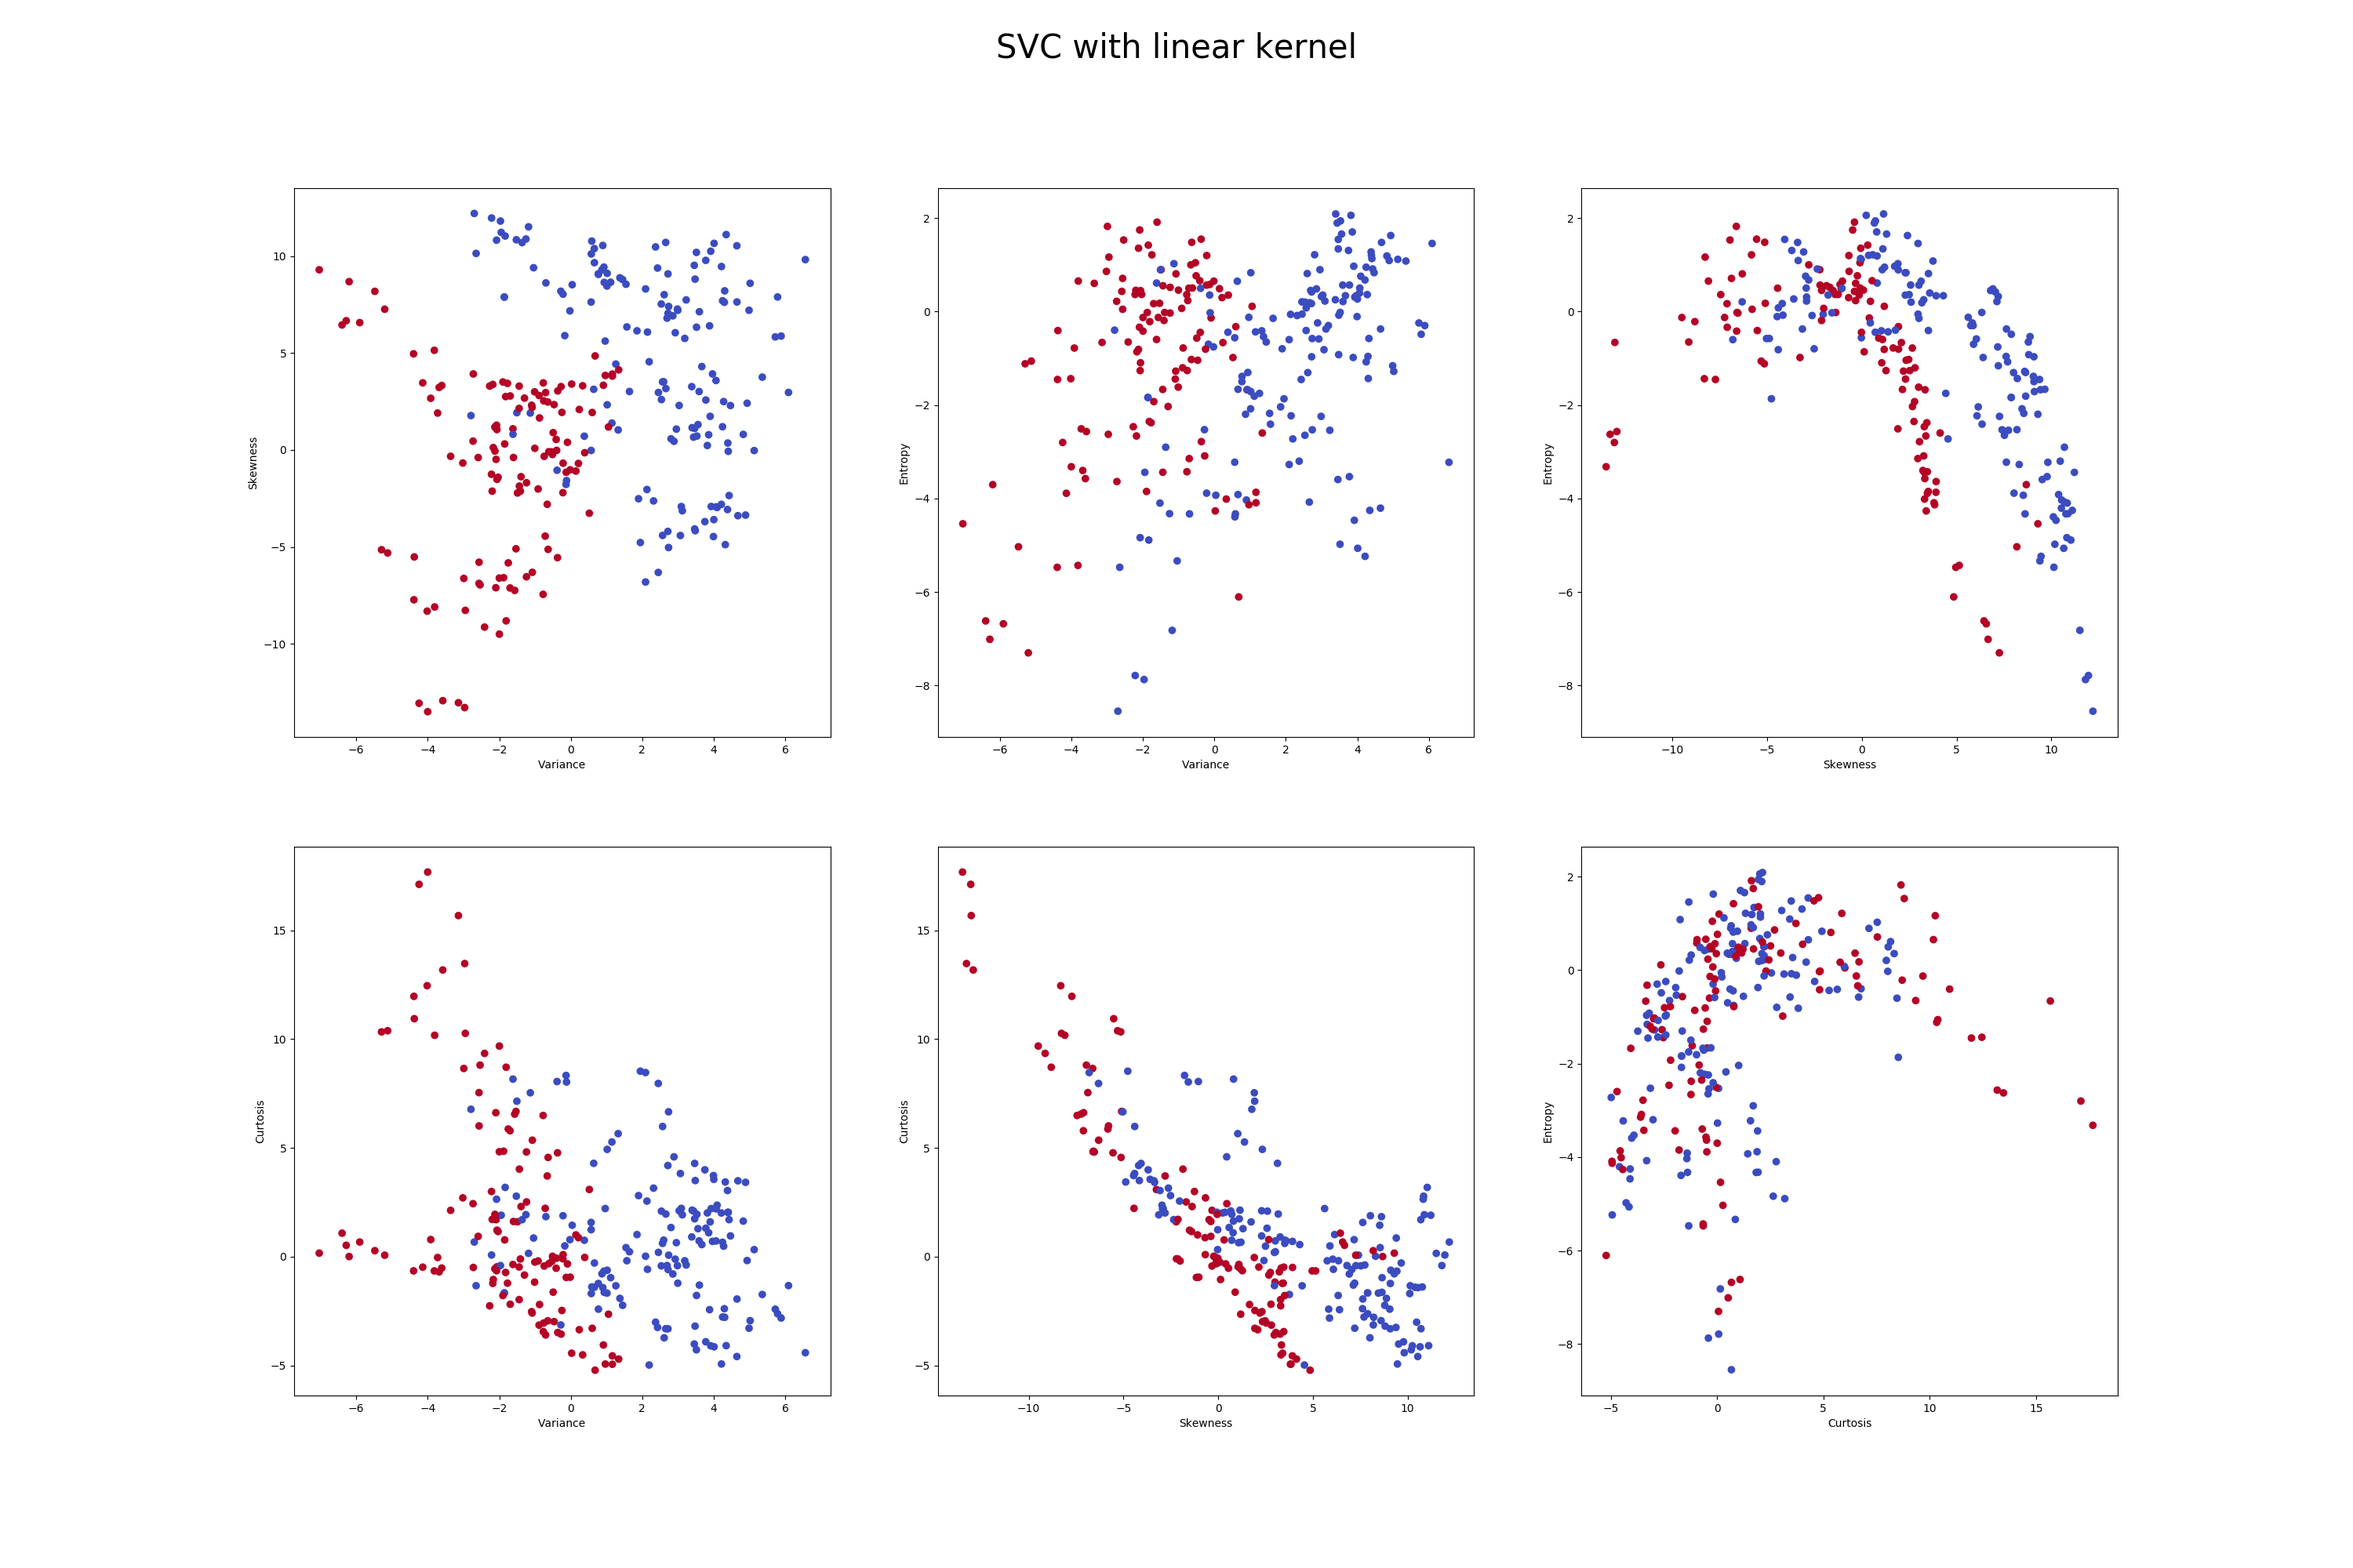
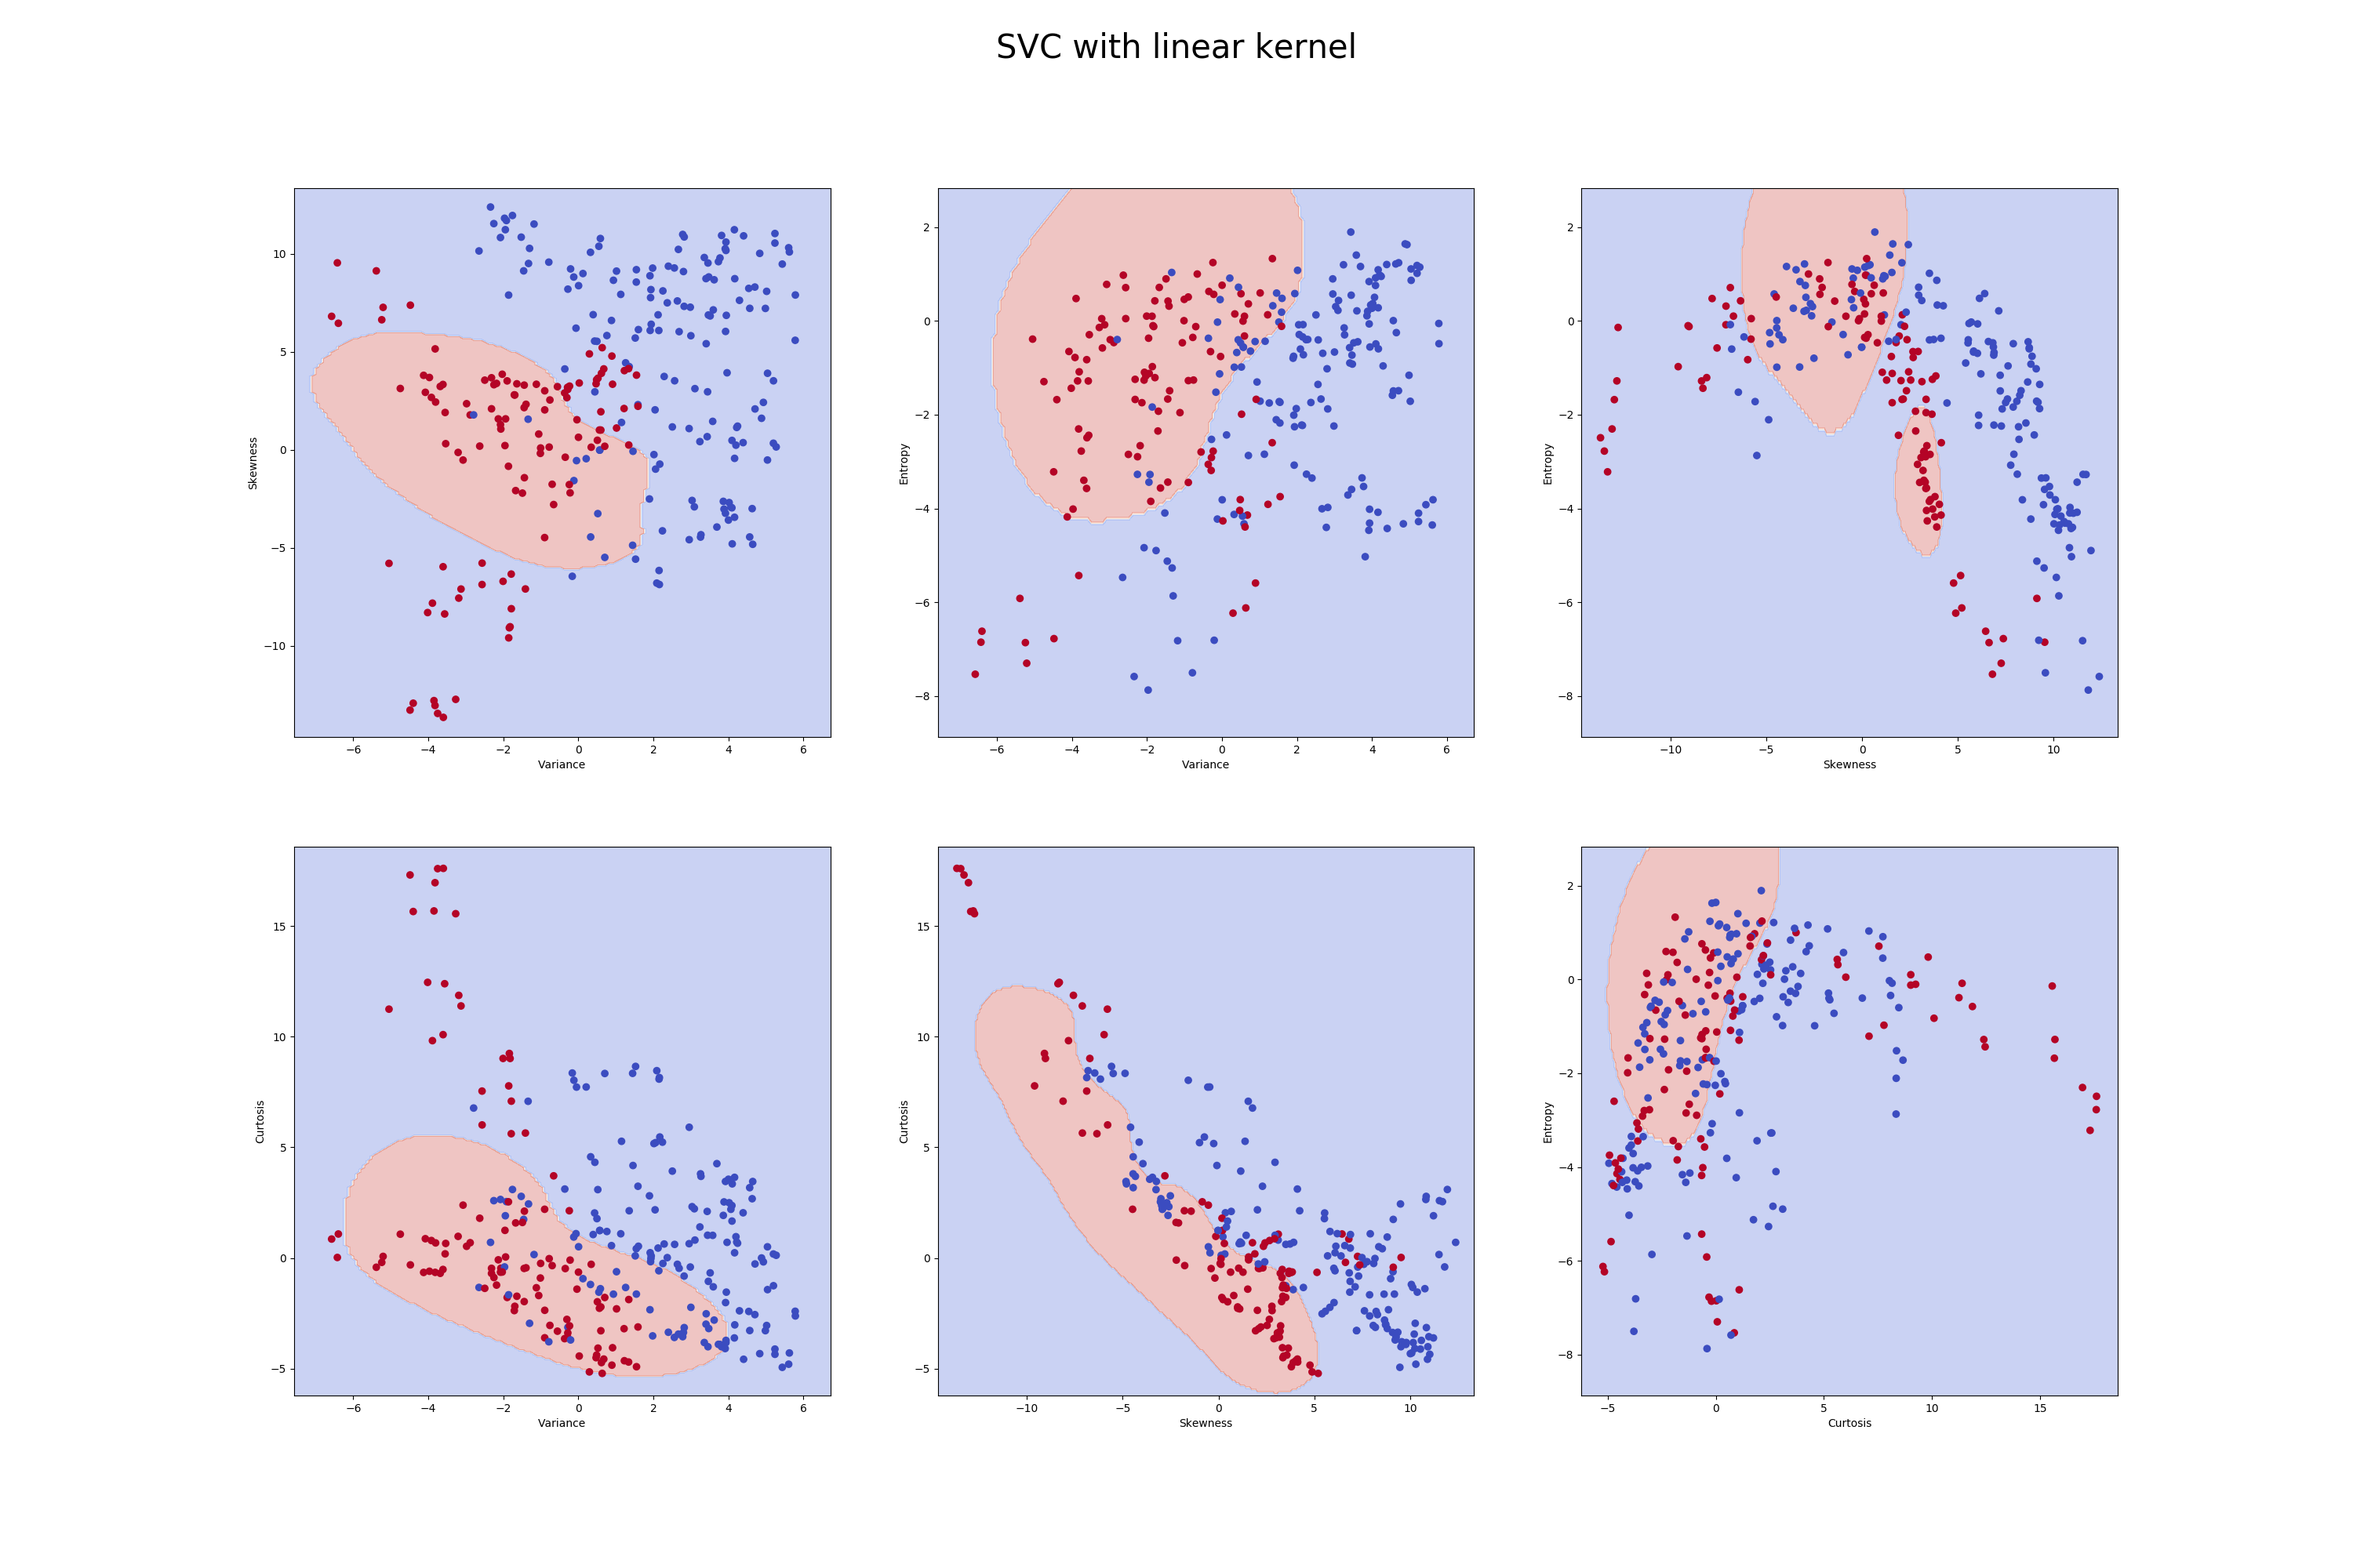
Plotting contourf

diff --git a/src/basic.py b/src/basic.py
@@ -8,7 +8,7 @@ from matplotlib.pyplot import figure
 
 label_column = 'Class'
 bankdata = pd.read_csv("../datasets/bill_authentication.csv")
-columns = set(bankdata.columns) - {label_column}
+columns = [c for c in bankdata.columns if c != label_column]
 attributes = bankdata.drop(label_column, axis=1)
 labels = bankdata[label_column]
 
@@ -20,7 +20,7 @@ from sklearn.svm import SVC
 model = model_selection.train_test_split(attributes, labels, test_size=0.20)
 train_attributes, test_attributes, train_labels, test_labels = model
 
-classifier = SVC(kernel='linear')
+classifier = SVC(kernel='rbf')
 classifier.fit(train_attributes, train_labels)
 
 # ------------------------------------------------------------------------------- Processing and evaluating
@@ -34,16 +34,50 @@ predictions = classifier.predict(test_attributes)
 # --------------------------------------------------------------------------------- Plot results
 import itertools
 
-dataset = test_attributes  # .iloc[:, :2].values  # first try with 2 columns
+dataset = test_attributes  # .iloc[:10,:]  # .iloc[:, :2].values  # first try with 2 columns
+h = 0.1
 
 graph_axes = list(itertools.combinations(columns, 2))
-column_indexes = {c: i for c, i in enumerate(columns)}
+column_indexes = {c: i for i, c in enumerate(columns)}
+column_number = len(column_indexes.items())
 n = len(graph_axes)
 boxes_number = 3
 fig, axs = plt.subplots(int(n / boxes_number), boxes_number)
+
+
+def create_dataset_from_mesh_grid(xx, yy, columns_x_y):
+    (column_x, column_y) = columns_x_y
+    raveled_xx, raveled_yy = xx.ravel(), yy.ravel()
+
+    arr = []
+    for i in range(column_number):
+        if i == columns.index(column_x):
+            arr.append(raveled_xx)
+        elif i == columns.index(column_y):
+            arr.append(raveled_yy)
+        else:
+            arr.append(np.array([0.0] * len(raveled_xx)))
+
+    return np.c_[arr[0], arr[1], arr[2], arr[3]]
+
+
+def create_meshed_dataset():
+    x_, y_ = dataset.iloc[:, columns.index(column_x)], dataset.iloc[:, columns.index(column_y)]
+    x_min, x_max = x_.min() - 1, x_.max() + 1
+    y_min, y_max = y_.min() - 1, y_.max() + 1
+    xx, yy = np.meshgrid(np.arange(x_min, x_max, h), np.arange(y_min, y_max, h))
+    return xx, yy, create_dataset_from_mesh_grid(xx, yy, (column_x, column_y))
+
+
 for i, (column_x, column_y) in enumerate(graph_axes):
     r, c = divmod(i, 2)
     g = axs[c, r]
+
+    xx, yy, mesh_grid = create_meshed_dataset()
+    Z = classifier.predict(mesh_grid).reshape(xx.shape)
+
+    g.contourf(xx, yy, Z, cmap=plt.cm.coolwarm, alpha=0.3)
+
     g.scatter(x=dataset[column_x],
               y=dataset[column_y],
               c=predictions,
@@ -60,10 +94,10 @@ plt.show()
 if __name__ == '__main__':
     # --------------------------------------------------------------------------------- Dump and reload
     import pickle
-
-    filename = 'classifier.pkl'
-    pickle.dump(classifier, open(filename, 'wb'))
-    loaded_classfier = pickle.load(open(filename, 'rb'))
-    predictions = loaded_classfier.predict(test_attributes)
+    #
+    # filename = 'classifier.pkl'
+    # pickle.dump(classifier, open(filename, 'wb'))
+    # loaded_classfier = pickle.load(open(filename, 'rb'))
+    # predictions = loaded_classfier.predict(test_attributes)
     # print(confusion_matrix(test_labels, predictions))
     # print(classification_report(test_labels, predictions))

diff --git a/src/example.py b/src/example.py
@@ -1,0 +1,58 @@
+import numpy as np
+import matplotlib.pyplot as plt
+from sklearn import svm, datasets
+
+# import some data to play with
+iris = datasets.load_iris()
+X = iris.data[:, :2]  # we only take the first two features. We could
+# avoid this ugly slicing by using a two-dim dataset
+y = iris.target
+
+h = .02  # step size in the mesh
+
+# we create an instance of SVM and fit out data. We do not scale our
+# data since we want to plot the support vectors
+C = 1.0  # SVM regularization parameter
+svc = svm.SVC(kernel='linear', C=C).fit(X, y)
+rbf_svc = svm.SVC(kernel='rbf', gamma=0.7, C=C).fit(X, y)
+poly_svc = svm.SVC(kernel='poly', degree=3, C=C).fit(X, y)
+lin_svc = svm.LinearSVC(C=C).fit(X, y)
+
+# create a mesh to plot in
+x_min, x_max = X[:, 0].min() - 1, X[:, 0].max() + 1
+y_min, y_max = X[:, 1].min() - 1, X[:, 1].max() + 1
+xx, yy = np.meshgrid(np.arange(x_min, x_max, h),
+                     np.arange(y_min, y_max, h))
+
+# title for the plots
+titles = ['SVC with linear kernel',
+          'LinearSVC (linear kernel)',
+          'SVC with RBF kernel',
+          'SVC with polynomial (degree 3) kernel']
+
+for i, clf in enumerate((svc, lin_svc, rbf_svc, poly_svc)):
+    # Plot the decision boundary. For that, we will assign a color to each
+    # point in the mesh [x_min, x_max]x[y_min, y_max].
+    plt.subplot(2, 2, i + 1)
+    plt.subplots_adjust(wspace=0.4, hspace=0.4)
+
+    Z = clf.predict(np.c_[xx.ravel(), yy.ravel()])
+
+    # Put the result into a color plot
+    Z = Z.reshape(xx.shape)
+    plt.contourf(xx, yy, Z, cmap=plt.cm.coolwarm, alpha=0.8)
+
+    # Plot also the training points
+    plt.scatter(X[:, 0], X[:, 1], c=y, cmap=plt.cm.coolwarm)
+    plt.xlabel('Sepal length')
+    plt.ylabel('Sepal width')
+    plt.xlim(xx.min(), xx.max())
+    plt.ylim(yy.min(), yy.max())
+    plt.xticks(())
+    plt.yticks(())
+    plt.title(titles[i])
+
+plt.show()
+
+if __name__ == '__main__':
+    pass
